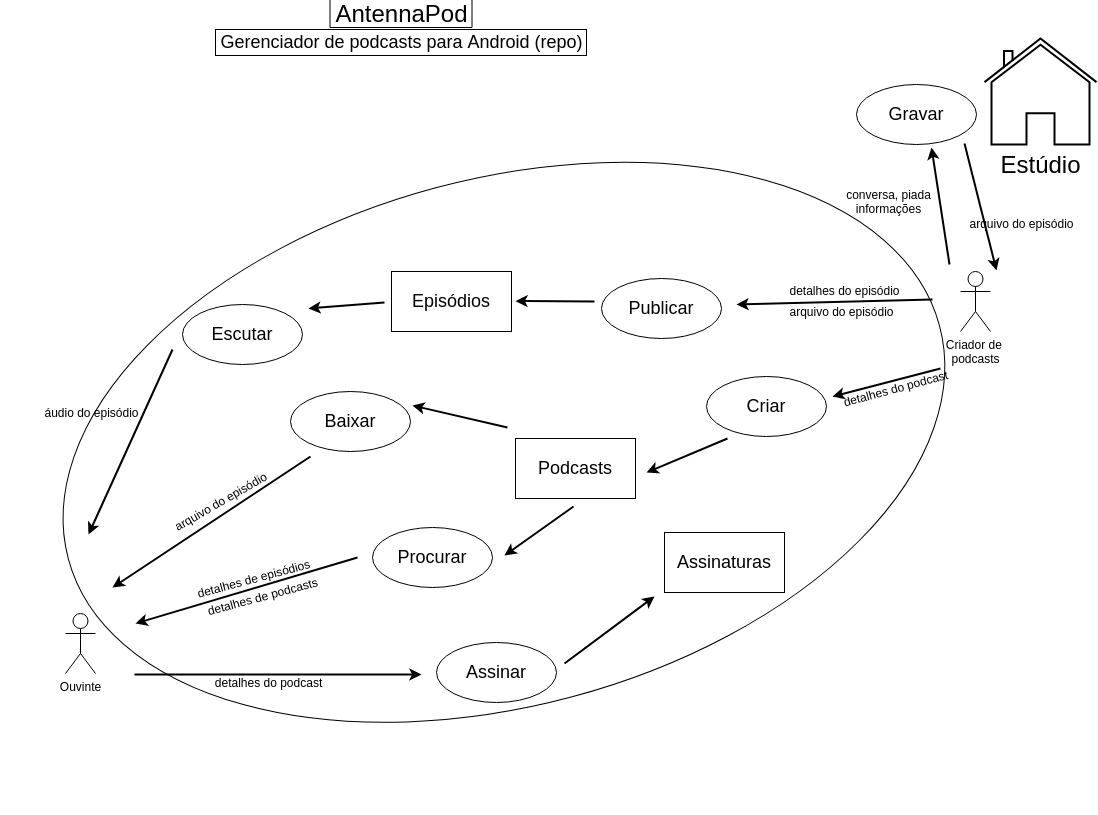
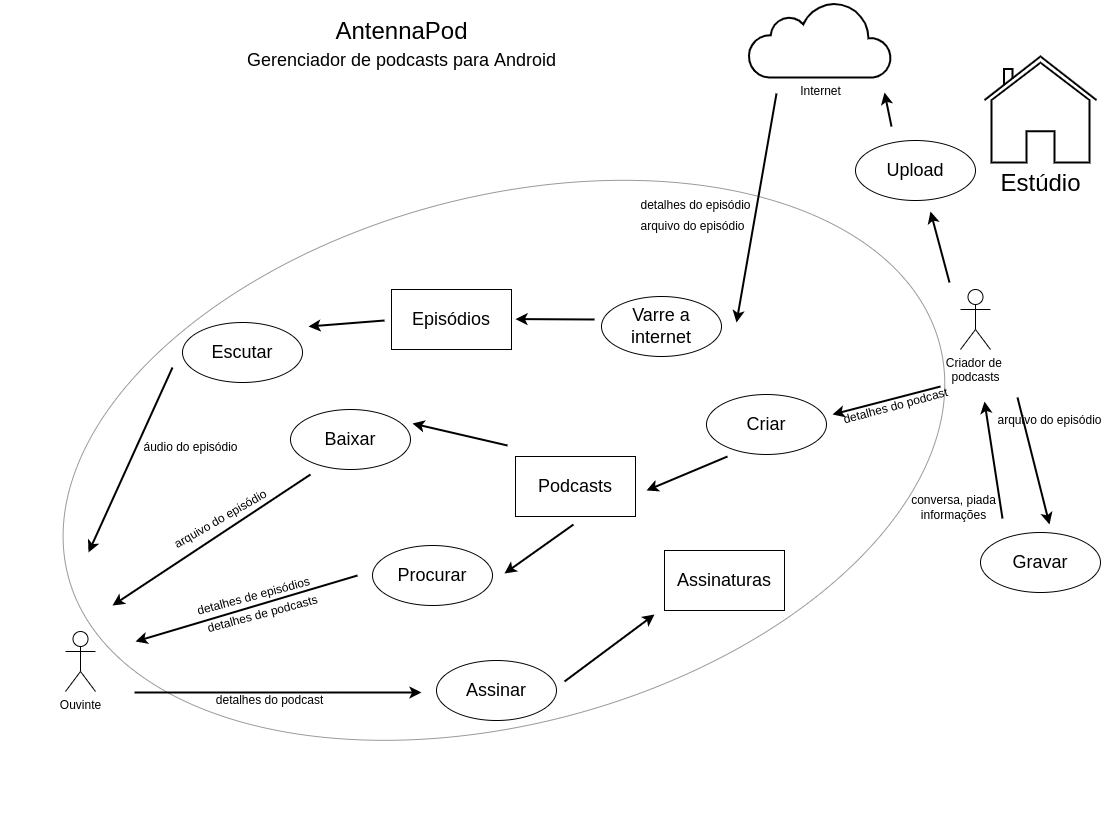
melhorada pagina inicial e corrigida rich picture. closes #8

diff --git a/docs/index.md b/docs/index.md
@@ -2,16 +2,24 @@
 
 ![logo antenna pod](img/logo.png)
 
-Este site é dedicado à disciplina do Requisitos de Software, cursada no 1º
-semestre de 2021, sobre o aplicativo AntennaPod.
+## Sobre este site
+
+É dedicado à disciplina do Requisitos de Software, cursada no 1º
+semestre de 2021, sobre o aplicativo AntennaPod. Este site vai conter
+os documentos levantados para rastreabilidade, elicitação e modelagem
+dos requisitos do aplicativo a fim de melhorá-los.
 
 ## Sobre o Aplicativo
 [AntennaPod](https://antennapod.org/) é um agregador tocador de podcasts para Android, grátis e open source.
 Nele o usuário pode procurar por podcasts existentes e assinar os de seu
 interesse. Uma vez assinado, o usuário pode receber notificações sobre
-novos episódios, baixá-los criar playlists e etc. 
+novos episódios, baixá-los criar, playlists e etc. 
 
-O objetivo da organização é contribuir para o ecosistema de podcasts.
+O objetivo da organização é contribuir para o ecossistema de podcasts com
+
+- apoio à liberdade de expressão
+- recompensas aos criadores de podcasts pelo seu trabalho criativo
+- permissão aos usuários para usarem e trocarem para outros apps sem aprisionamento tecnológico
 
 ## Equipe
 

diff --git a/docs/richPicture.md b/docs/richPicture.md
@@ -4,6 +4,7 @@
 | Data         | Versão   | Descrição              | Autor(es)               |
 |--------------|----------|------------------------|-------------------------|
 |  10.02.2022  |   0.1    |  Criação do documento  |  Amanda Nobre           |
+|  11.02.2022  |   0.2    |  Atualização do rich picture  |  Yudi Yamane           |
 
 ## Introdução
 
